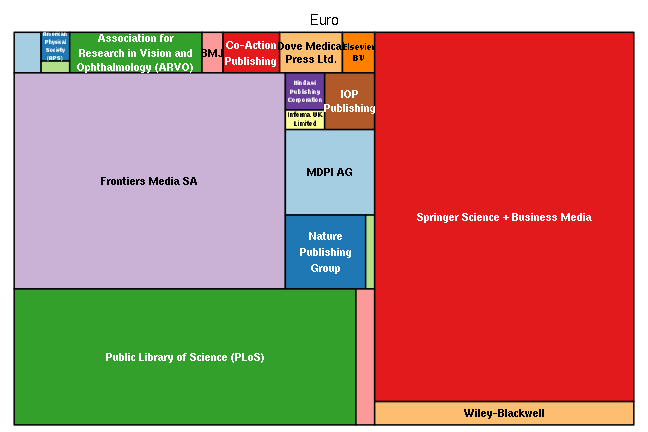
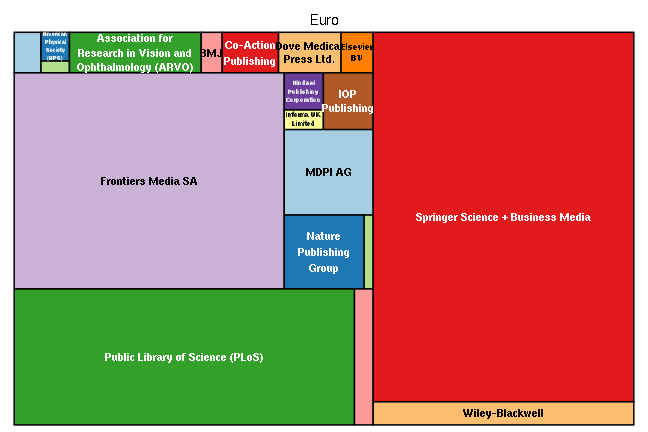
Bielefeld Post updated

Changed region(s): [[0.0926, 0.0602, 0.9568, 0.9931], [0.6481, 0.4815, 0.9259, 0.5116], [0.1543, 0.8125, 0.4012, 0.8426]]

diff --git a/_posts/2016-02-11-bielefeld.md b/_posts/2016-02-11-bielefeld.md
@@ -21,14 +21,14 @@ Contact person is [Dirk Pieper](<mailto:oa.ub@uni-bielefeld.de>).
 
 
 
-The new dataset covers publication fees for 102 articles, which the fund covered in 2015 so far. Total expenditure amounts to 134 178€ and the average fee is 1 315€.
+The new dataset covers publication fees for 103 articles, which the fund covered in 2015 so far. Total expenditure amounts to 135 518€ and the average fee is 1 316€.
 
 The following table shows the payments [Bielefeld University Library](http://www.ub.uni-bielefeld.de/english/) has made to publishers in 2015.
 
 
 |                                                            | Articles| Fees paid in EURO| Mean Fee paid|
 |:-----------------------------------------------------------|--------:|-----------------:|-------------:|
-|Springer Science + Business Media                           |       37|             51579|          1394|
+|Springer Science + Business Media                           |       38|             52919|          1393|
 |Frontiers Media SA                                          |       25|             30529|          1221|
 |Public Library of Science (PLoS)                            |       19|             25694|          1352|
 |MDPI AG                                                     |        5|              5581|          1116|
